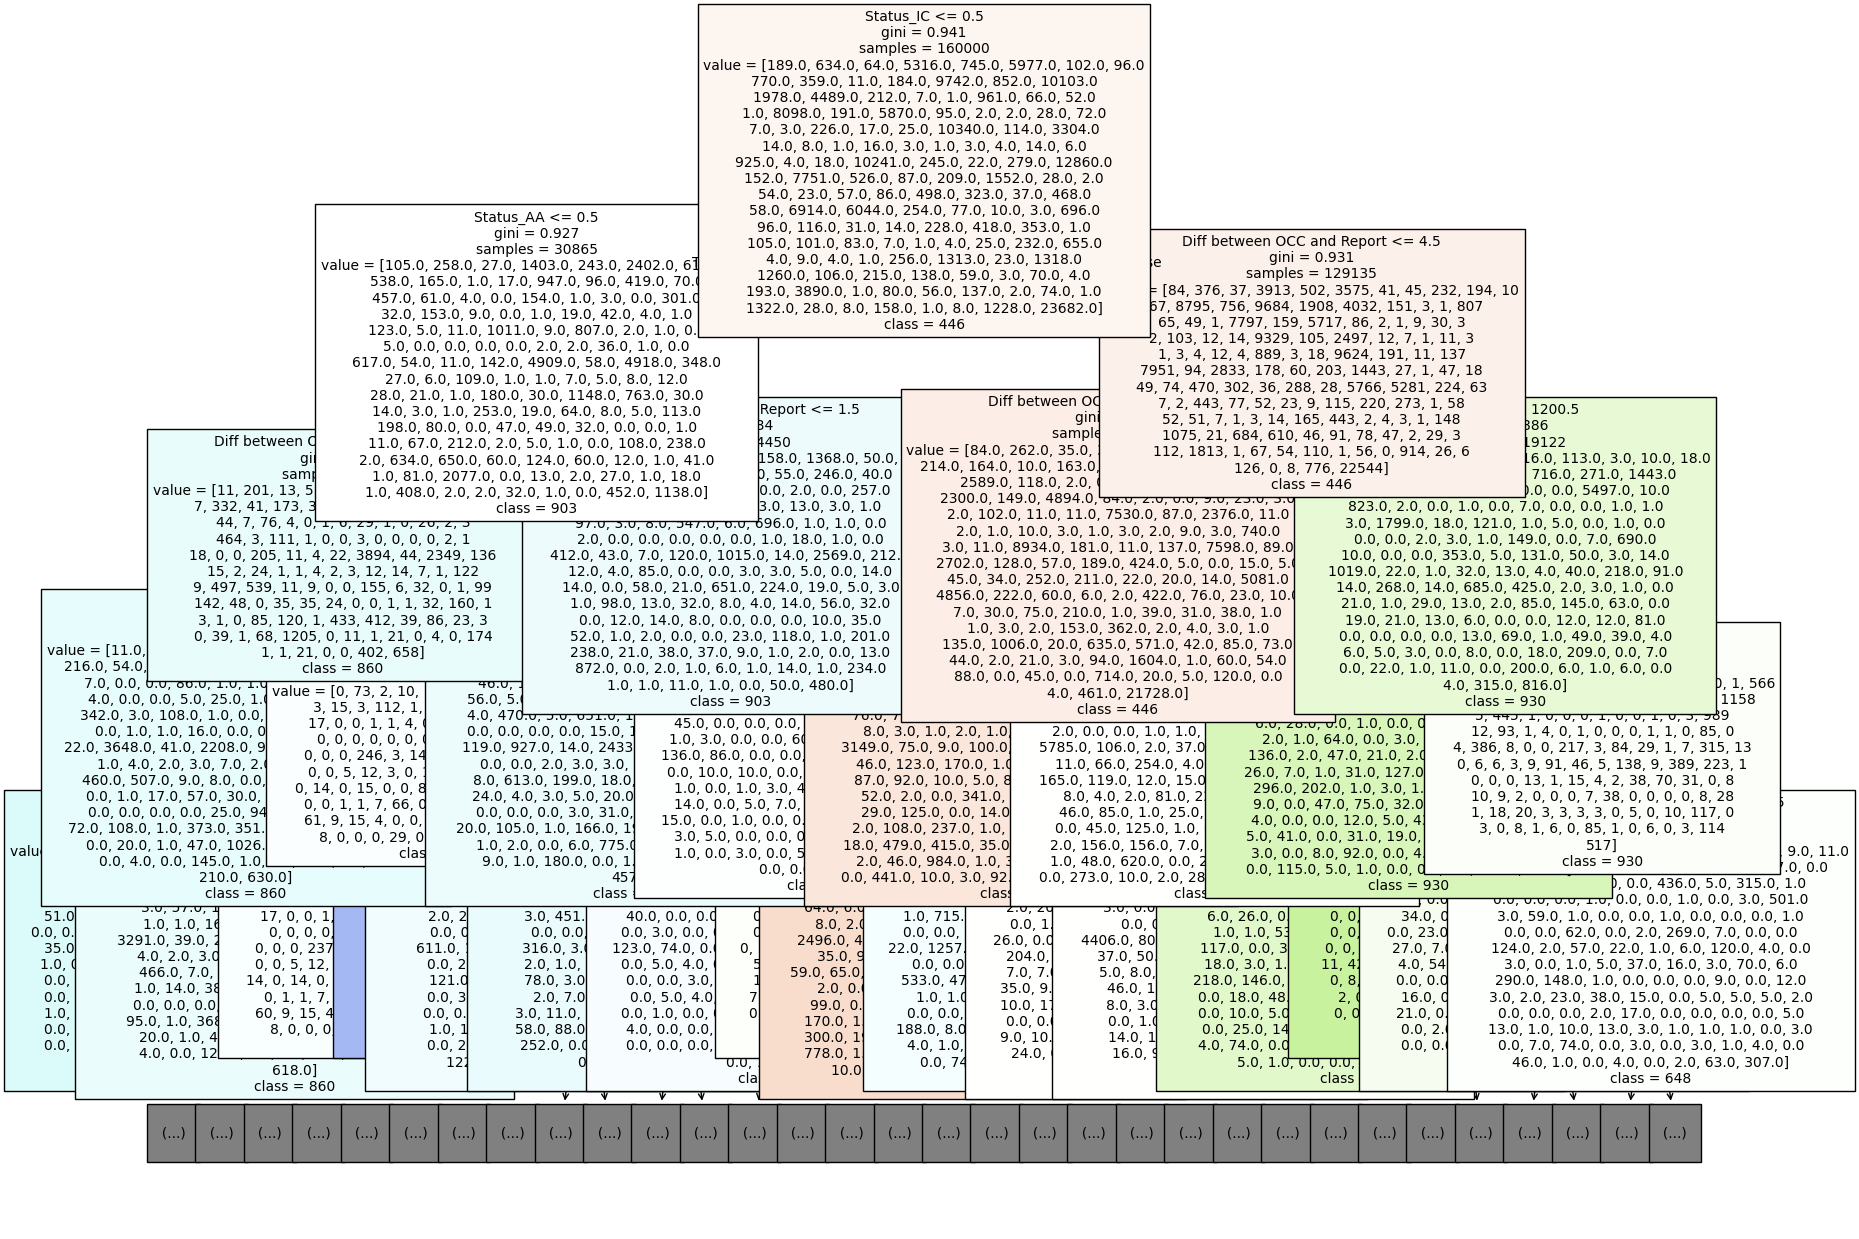
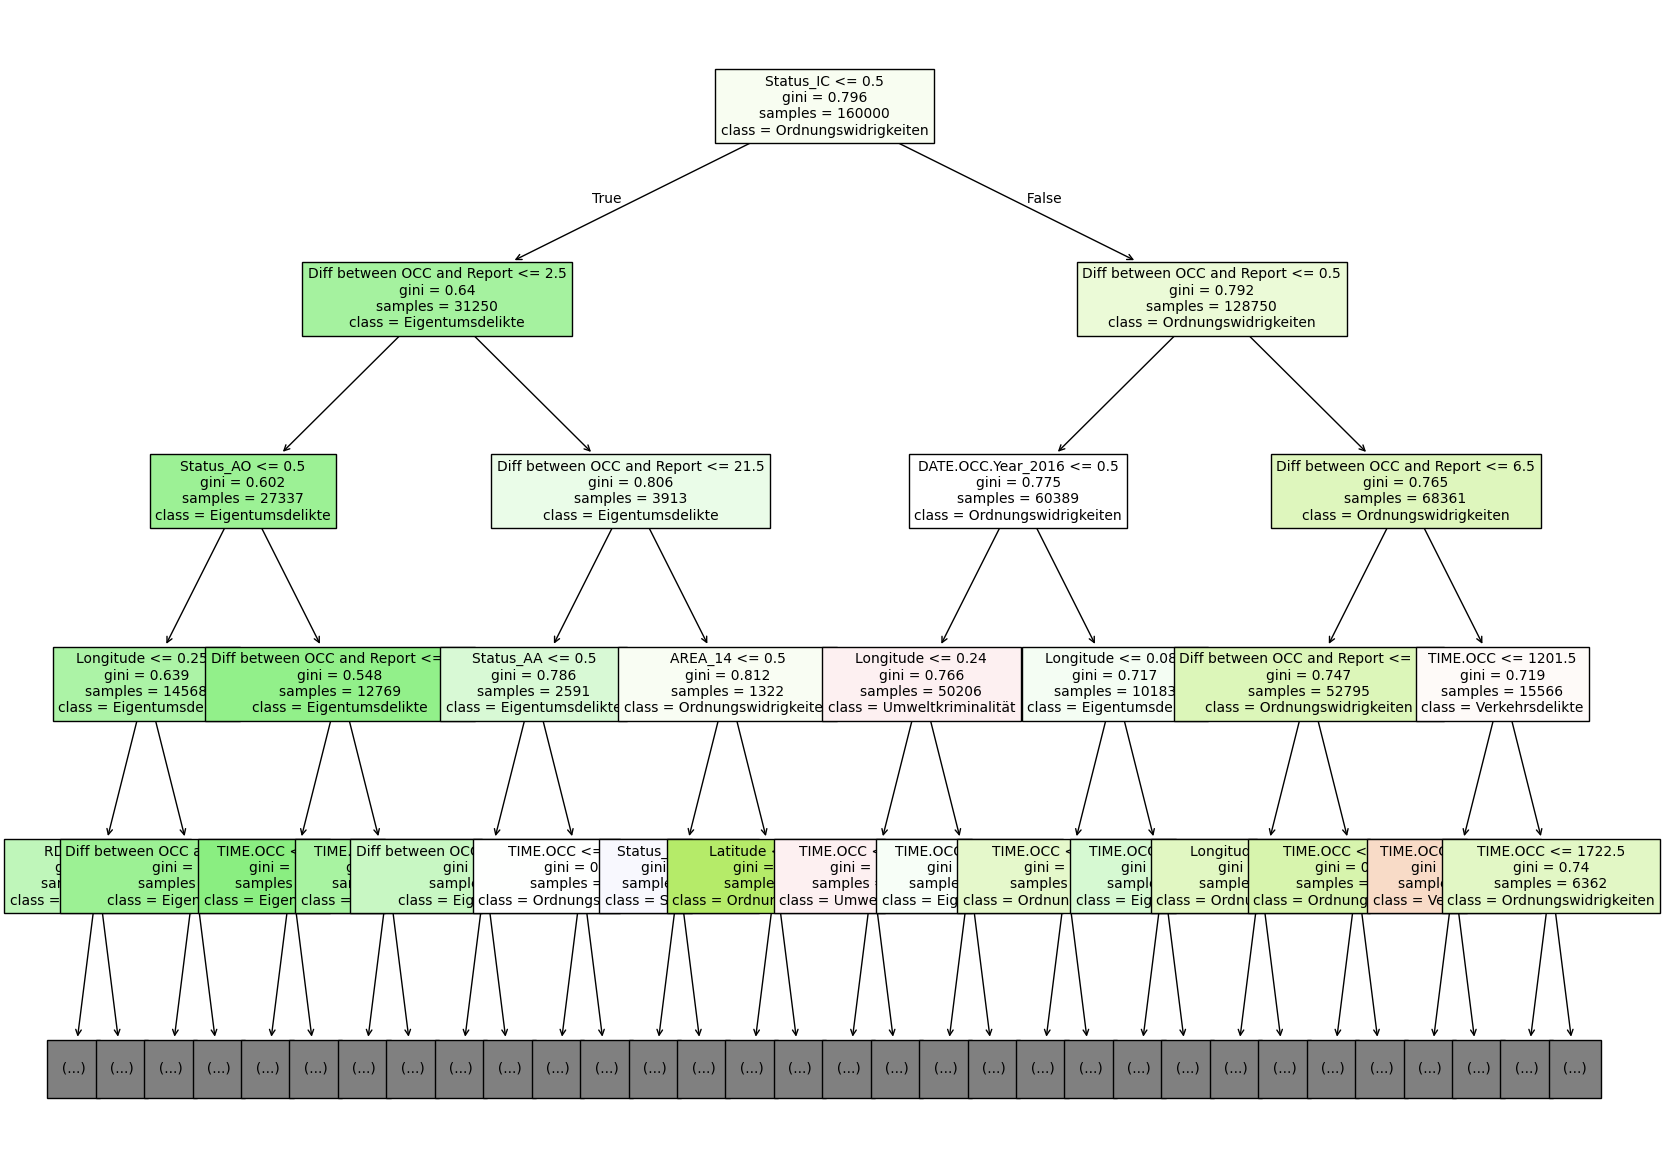
RD in Tree aktualisiert

diff --git a/decisionTree.py b/decisionTree.py
@@ -12,7 +12,7 @@ import gc
 import optuna
 import matplotlib.pyplot as plt
 import re
-from lib.crimeCategories import crime_categories
+from lib.crimeCategories import crime_categories, categorize_crime
 
 
 def replace_text(obj):
@@ -105,6 +105,9 @@ if __name__ == "__main__":
     data_sample = data_sample.sample(n=200000, random_state=RANDOM_SEED)
     data_sample = format_data_frame(data_sample)
     data_sample = remove_outside_la(data_sample)
+    logger.info(f"Grouping Categories")
+    data_sample['Crime Categorie'] = data_sample['CrmCd.Desc'].apply(
+        categorize_crime)
 
     # del data
     # gc.collect()
@@ -120,7 +123,7 @@ if __name__ == "__main__":
                                           'RD',
                                           'Status']]
 
-    target = data_sample['Crm.Cd']
+    target = data_sample['Crime Categorie']
 
     scaler = StandardScaler()
     scaled_features = scaler.fit_transform(
@@ -133,6 +136,7 @@ if __name__ == "__main__":
     features = pd.get_dummies(features, columns=['DATE.OCC.Year'])
     features = pd.get_dummies(features, columns=['WEEKDAY'])
     features = pd.get_dummies(features, columns=['Status'])
+    features = pd.get_dummies(features, columns=['RD'])
 
     logger.info('---------------------------------------------')
     logger.info("Data-Preparation finished ...")

diff --git a/lib/crimeCategories.py b/lib/crimeCategories.py
@@ -1,5 +1,4 @@
 # crime_categories.py
-
 crime_categories = {
     'Gewaltverbrechen': [
         'OTHER ASSAULT',
@@ -187,11 +186,8 @@ crime_categories = {
 }
 
 
-# def categorize_crime(description):
-#     for category, crimes in crime_categories.items():
-#         if description in crimes:
-#             return category
-#     return 'Unbekannt'  # Für Verbrechen, die nicht im Dictionary vorhanden sind
-
-# # Füge die "Crime Categorie"-Spalte hinzu
-# data['Crime Categorie'] = data['CrmCd.Desc'].apply(categorize_crime)
+def categorize_crime(description):
+    for category, crimes in crime_categories.items():
+        if description in crimes:
+            return category
+    return 'Unbekannt'  # Für Verbrechen, die nicht im Dictionary vorhanden sind
